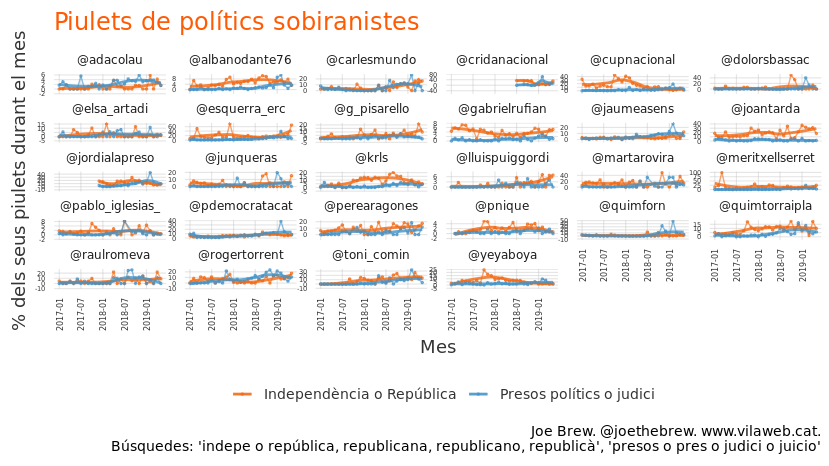
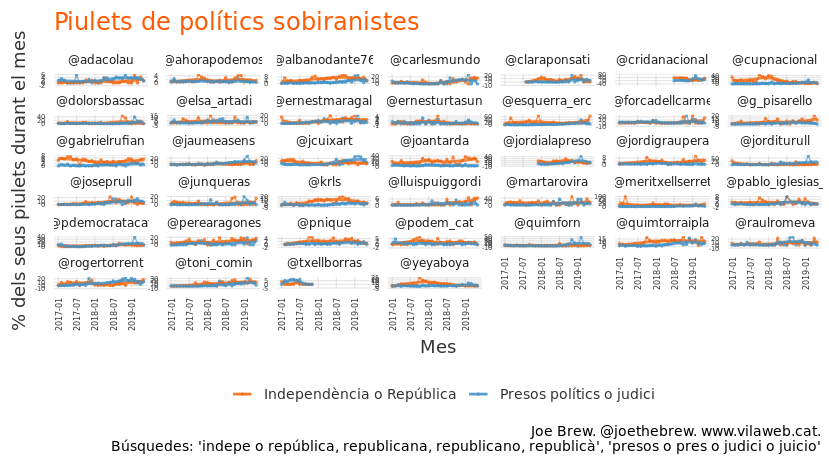
minor update

Changed region(s): [[0.0302, 0.1202, 0.9952, 0.721], [0.0302, 0.5708, 0.0603, 0.6009]]

diff --git a/analyses/indepe_vs_judici/README.md b/analyses/indepe_vs_judici/README.md
@@ -1,12 +1,7 @@
 La gran distracció: com afecta el judici al procés a l'atencio a la independència de Catalunya
 ================
 
--   [Introducció](#introducció)
--   [Metodologia](#metodologia)
--   [Resultats](#resultats)
--   [Interpretació](#interpretació)
--   [Reflexió personal](#reflexió-personal)
--   [Technical details](#technical-details)
+    [1] TRUE
 
 Introducció
 ===========
@@ -20,7 +15,7 @@ Aquesta article tractarà aquest tema: quina és la relació entre l'atenció a 
 Metodologia
 ===========
 
-Faig un anàlisi de 263639 piulets de 40 polítics sobiranistes (no necessariament independentistes). Calculo la freqüencia de l'aparació de certs termes ("independència", "presos", "república", "judici", etc.).
+Faig un anàlisi de 422512 piulets de 40 polítics sobiranistes (no necessariament independentistes). Calculo la freqüencia de l'aparació de certs termes ("independència", "presos", "república", "judici", etc.).
 
 Resultats
 =========
